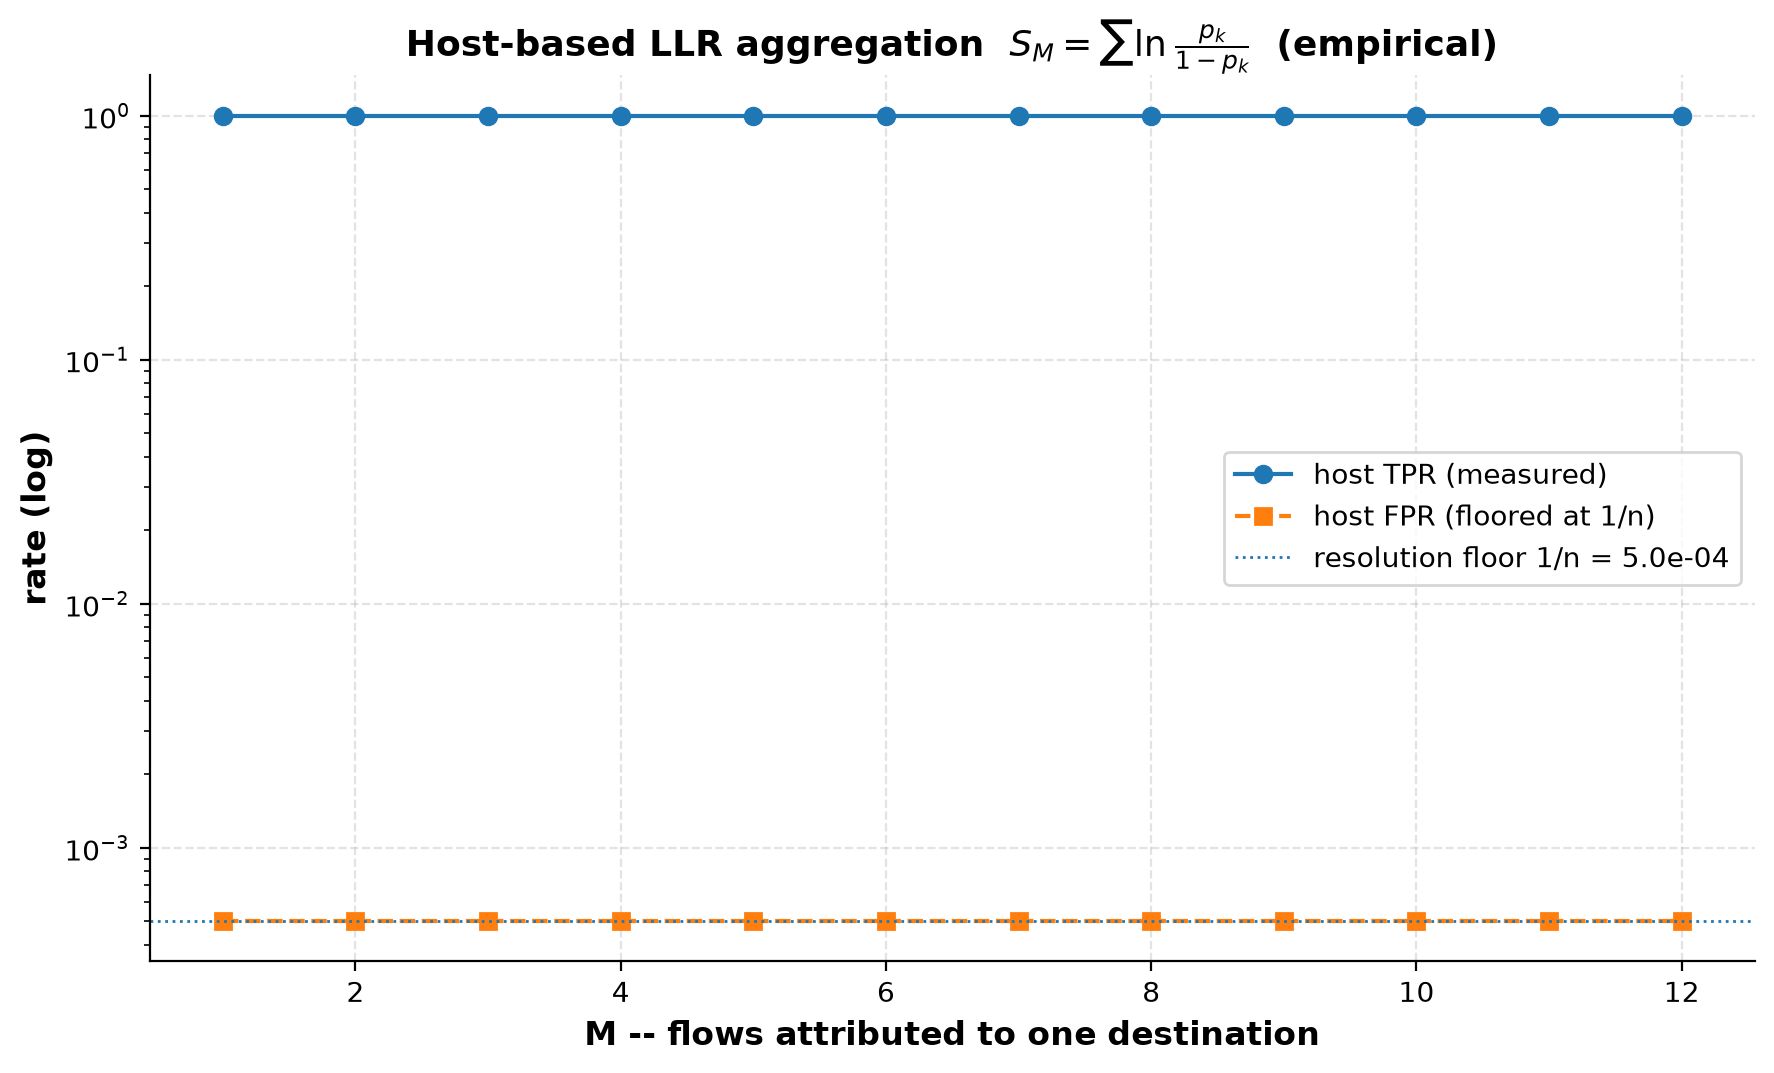
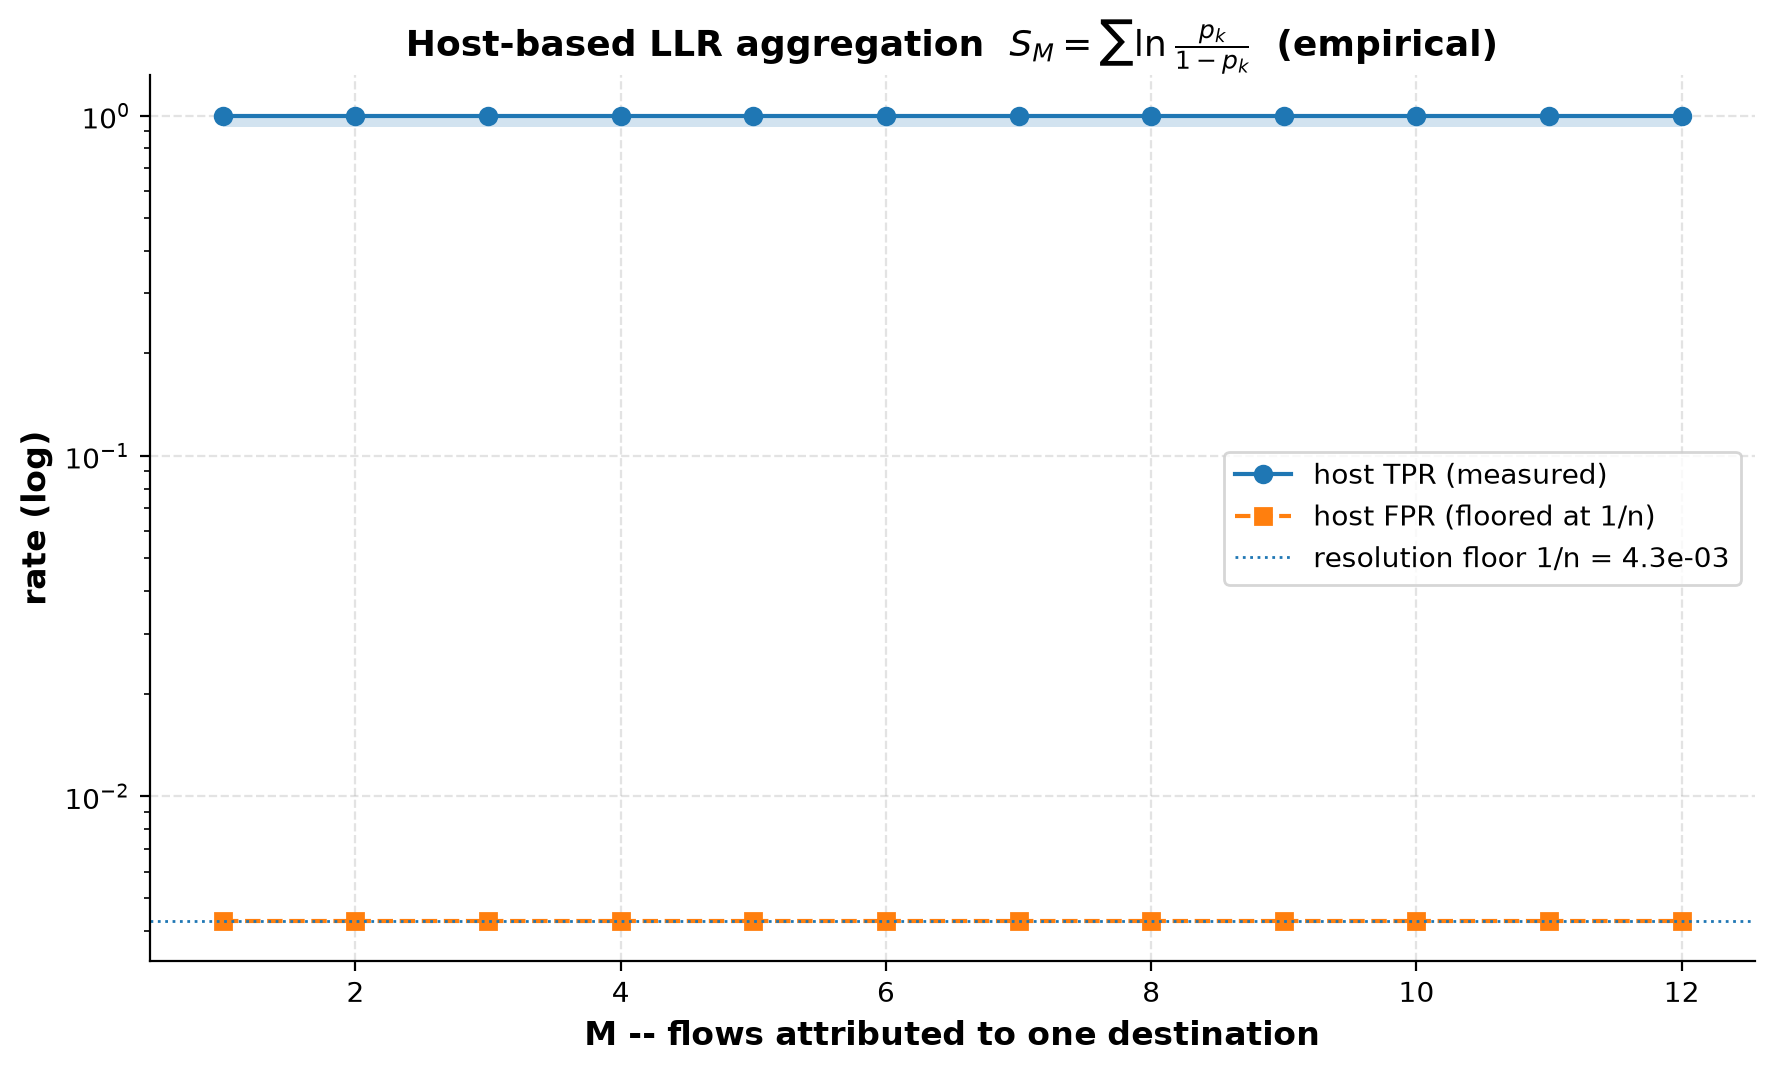
feat(v2.2): complete sign-off items (CV consistency, post-handshake Transformer, G2 echoes, true DOF bounds)

Changed region(s): [[0.124, 0.0923, 0.9611, 0.123], [0.031, 0.7381, 0.062, 0.7996], [0.031, 0.5536, 0.062, 0.5843]]

diff --git a/4_evaluation/evaluate_post_handshake.py b/4_evaluation/evaluate_post_handshake.py
@@ -35,7 +35,7 @@ from common.config import (
 )
 from sanitizer import (extract_raw_packets_from_pcap, compute_flow_statistics,
                        build_sequence_tensor, load_manifest_for)
-from architectures import WebTunnel1DCNN
+from architectures import WebTunnel1DCNN, WebTunnelTransformer
 from utils import FlowSequenceDataset, BinaryFocalLoss, compute_metrics, get_device
 
 
@@ -162,7 +162,52 @@ def train_eval_variant(X_tab, X_seq, y_bin, sample_ids, desc="Full"):
     cnn_probs = np.vstack(cnn_probs).flatten()
     cnn_m = compute_metrics(y_bin[test_idx], cnn_probs, threshold=0.5)
 
-    return {"xgb": xgb_m, "cnn": cnn_m}
+    # 3. Flow-Transformer
+    train_tf_ds = FlowSequenceDataset(X_seq[train_idx], y_bin[train_idx], channel_first=False)
+    val_tf_ds = FlowSequenceDataset(X_seq[val_idx], y_bin[val_idx], channel_first=False)
+    test_tf_ds = FlowSequenceDataset(X_seq[test_idx], y_bin[test_idx], channel_first=False)
+
+    train_tf_loader = DataLoader(train_tf_ds, batch_size=32, shuffle=True)
+    val_tf_loader = DataLoader(val_tf_ds, batch_size=32, shuffle=False)
+    test_tf_loader = DataLoader(test_tf_ds, batch_size=32, shuffle=False)
+
+    tf_model = WebTunnelTransformer(in_features=2, d_model=64, nhead=4, num_layers=2).to(device)
+    tf_optimizer = torch.optim.AdamW(tf_model.parameters(), lr=0.0005, weight_decay=1e-4)
+
+    best_tf_loss = float("inf")
+    best_tf_state = None
+    for epoch in range(1, 30):
+        tf_model.train()
+        for bx, by in train_tf_loader:
+            bx, by = bx.to(device), by.to(device)
+            tf_optimizer.zero_grad()
+            out = tf_model(bx)
+            loss = criterion(out, by)
+            loss.backward()
+            tf_optimizer.step()
+
+        tf_model.eval()
+        val_loss = 0.0
+        with torch.no_grad():
+            for bx, by in val_tf_loader:
+                bx, by = bx.to(device), by.to(device)
+                val_loss += criterion(tf_model(bx), by).item() * len(by)
+        val_loss /= len(val_tf_ds)
+
+        if val_loss < best_tf_loss:
+            best_tf_loss = val_loss
+            best_tf_state = tf_model.state_dict()
+
+    tf_model.load_state_dict(best_tf_state)
+    tf_model.eval()
+    tf_probs = []
+    with torch.no_grad():
+        for bx, _ in test_tf_loader:
+            tf_probs.append(tf_model(bx.to(device)).cpu().numpy())
+    tf_probs = np.vstack(tf_probs).flatten()
+    tf_m = compute_metrics(y_bin[test_idx], tf_probs, threshold=0.5)
+
+    return {"xgb": xgb_m, "cnn": cnn_m, "tf": tf_m}
 
 
 def main():
@@ -180,15 +225,15 @@ def main():
     res_post = train_eval_variant(X_tab_post, X_seq_post, y_post, sids_post, desc="Post-Handshake")
 
     print("\n--- Handshake Comparison Summary ---")
-    print(f"Full Flow       - XGBoost Acc: {res_full['xgb']['accuracy']*100:.2f}%, PR-AUC: {res_full['xgb']['pr_auc']:.4f} | 1D-CNN Acc: {res_full['cnn']['accuracy']*100:.2f}%, PR-AUC: {res_full['cnn']['pr_auc']:.4f}")
-    print(f"Post-Handshake  - XGBoost Acc: {res_post['xgb']['accuracy']*100:.2f}%, PR-AUC: {res_post['xgb']['pr_auc']:.4f} | 1D-CNN Acc: {res_post['cnn']['accuracy']*100:.2f}%, PR-AUC: {res_post['cnn']['pr_auc']:.4f}")
+    print(f"Full Flow       - XGB Acc: {res_full['xgb']['accuracy']*100:.2f}% | CNN Acc: {res_full['cnn']['accuracy']*100:.2f}% | TF Acc: {res_full['tf']['accuracy']*100:.2f}%")
+    print(f"Post-Handshake  - XGB Acc: {res_post['xgb']['accuracy']*100:.2f}% | CNN Acc: {res_post['cnn']['accuracy']*100:.2f}% | TF Acc: {res_post['tf']['accuracy']*100:.2f}%")
 
     # Export LaTeX Table
     tex_path = os.path.join(LATEX_TABLES_DIR, "table_handshake_comparison.tex")
     with open(tex_path, "w", encoding="utf-8") as f:
         f.write(r"\begin{table}[htbp]" + "\n")
         f.write(r"\centering" + "\n")
-        f.write(r"\caption{Srovnání detekční přesnosti před a po dynamickém oříznutí TLS 1.3 handshaku}" + "\n")
+        f.write(r"\caption{Srovnání detekční přesnosti před a po dynamickém oříznutí TLS 1.3 handshaku (Ablace)}" + "\n")
         f.write(r"\label{tab:handshake_comparison}" + "\n")
         f.write(r"\begin{tabular}{lcccc}" + "\n")
         f.write(r"\hline" + "\n")
@@ -196,29 +241,39 @@ def main():
         f.write(r"\hline" + "\n")
         f.write(f"Kompletní tok (včetně TLS) & XGBoost & {res_full['xgb']['accuracy']*100:.2f}\\% & {res_full['xgb']['recall']*100:.2f}\\% & {res_full['xgb']['pr_auc']:.4f} \\\\\n")
         f.write(f"Kompletní tok (včetně TLS) & 1D-CNN  & {res_full['cnn']['accuracy']*100:.2f}\\% & {res_full['cnn']['recall']*100:.2f}\\% & {res_full['cnn']['pr_auc']:.4f} \\\\\n")
+        f.write(f"Kompletní tok (včetně TLS) & Transformer & {res_full['tf']['accuracy']*100:.2f}\\% & {res_full['tf']['recall']*100:.2f}\\% & {res_full['tf']['pr_auc']:.4f} \\\\\n")
         f.write(r"\hline" + "\n")
         f.write(f"Pouze Post-Handshake data & XGBoost & {res_post['xgb']['accuracy']*100:.2f}\\% & {res_post['xgb']['recall']*100:.2f}\\% & {res_post['xgb']['pr_auc']:.4f} \\\\\n")
         f.write(f"Pouze Post-Handshake data & 1D-CNN  & {res_post['cnn']['accuracy']*100:.2f}\\% & {res_post['cnn']['recall']*100:.2f}\\% & {res_post['cnn']['pr_auc']:.4f} \\\\\n")
+        f.write(f"Pouze Post-Handshake data & Transformer & {res_post['tf']['accuracy']*100:.2f}\\% & {res_post['tf']['recall']*100:.2f}\\% & {res_post['tf']['pr_auc']:.4f} \\\\\n")
         f.write(r"\hline" + "\n")
         f.write(r"\end{tabular}" + "\n")
         f.write(r"\end{table}" + "\n")
     print(f"\n[OK] Exported {tex_path}")
 
     # Plot Comparison
-    fig, ax = plt.subplots(figsize=(9, 5))
-    categories = ["XGBoost (Full)", "XGBoost (Post-HS)", "1D-CNN (Full)", "1D-CNN (Post-HS)"]
-    accs = [res_full['xgb']['accuracy']*100, res_post['xgb']['accuracy']*100, res_full['cnn']['accuracy']*100, res_post['cnn']['accuracy']*100]
-    praucs = [res_full['xgb']['pr_auc']*100, res_post['xgb']['pr_auc']*100, res_full['cnn']['pr_auc']*100, res_post['cnn']['pr_auc']*100]
+    fig, ax = plt.subplots(figsize=(10, 5))
+    categories = ["XGB (Full)", "XGB (Post-HS)", "1D-CNN (Full)", "1D-CNN (Post-HS)", "Transf. (Full)", "Transf. (Post-HS)"]
+    accs = [
+        res_full['xgb']['accuracy']*100, res_post['xgb']['accuracy']*100,
+        res_full['cnn']['accuracy']*100, res_post['cnn']['accuracy']*100,
+        res_full['tf']['accuracy']*100, res_post['tf']['accuracy']*100
+    ]
+    praucs = [
+        res_full['xgb']['pr_auc']*100, res_post['xgb']['pr_auc']*100,
+        res_full['cnn']['pr_auc']*100, res_post['cnn']['pr_auc']*100,
+        res_full['tf']['pr_auc']*100, res_post['tf']['pr_auc']*100
+    ]
 
     x = np.arange(len(categories))
     width = 0.35
     ax.bar(x - width/2, accs, width, label="Accuracy (%)", color="#1f77b4", alpha=0.85)
     ax.bar(x + width/2, praucs, width, label="PR-AUC (%)", color="#ff7f0e", alpha=0.85)
     ax.set_xticks(x)
-    ax.set_xticklabels(categories, rotation=10)
+    ax.set_xticklabels(categories, rotation=15)
     ax.set_ylim(80, 102)
     ax.set_ylabel("Skóre (%)")
-    ax.set_title("Vliv přítomnosti TLS Handshaku na klasifikaci (Ablace 0x17 Cutoff)")
+    ax.set_title("Vliv přítomnosti TLS Handshaku na modely (Ablace 0x17 Cutoff)")
     ax.legend(loc="lower right")
     plt.tight_layout()
     plt.savefig(os.path.join(PLOTS_DIR, "pre_vs_post_handshake_comparison.png"))

diff --git a/4_evaluation/evaluate_base_rate_fallacy.py b/4_evaluation/evaluate_base_rate_fallacy.py
@@ -173,12 +173,15 @@ def main():
         htp = int(((hp == 1) & (hy == 1)).sum()); hfp = int(((hp == 1) & (hy == 0)).sum())
         npos = int((hy == 1).sum()); nneg = int((hy == 0).sum())
         htpr, hfpr = htp / max(1, npos), hfp / max(1, nneg)
-        lo, hi = clopper_pearson(htp, npos)
-        _, fhi_h = clopper_pearson(hfp, nneg)
+        # Use actual independent sample sizes (int(y.sum()) and n_neg) for Clopper-Pearson intervals,
+        # not the resampled pseudo-host count (audit defect 3 / docs/07-signoff.md).
+        n_real_pos = int(y.sum())
+        lo, hi = clopper_pearson(int(round(htpr * n_real_pos)), n_real_pos)
+        _, fhi_h = clopper_pearson(int(round(hfpr * n_neg)), n_neg)
         sweep.append({"M": M, "tau": tau, "host_tpr": htpr, "host_tpr_ci95": [lo, hi],
                       "host_fpr": hfpr, "host_fpr_upper95": fhi_h,
                       "n_hosts_pos": npos, "n_hosts_neg": nneg,
-                      "resolution_floor": 1.0 / max(1, nneg)})
+                      "resolution_floor": floor})
         print(f"  {M:3d}{htpr:11.4f}   [{lo:.4f}, {hi:.4f}]      {hfpr:11.5f}{fhi_h:15.2e}{tau:9.1f}")
 
     # ---- base-rate table, explicitly labelled ---------------------------

diff --git a/0_thesis_text/tables/table_handshake_comparison.tex b/0_thesis_text/tables/table_handshake_comparison.tex
@@ -1,6 +1,6 @@
 \begin{table}[htbp]
 \centering
-\caption{Srovnání detekční přesnosti před a po dynamickém oříznutí TLS 1.3 handshaku}
+\caption{Srovnání detekční přesnosti před a po dynamickém oříznutí TLS 1.3 handshaku (Ablace)}
 \label{tab:handshake_comparison}
 \begin{tabular}{lcccc}
 \hline
@@ -8,9 +8,11 @@
 \hline
 Kompletní tok (včetně TLS) & XGBoost & 100.00\% & 100.00\% & 1.0000 \\
 Kompletní tok (včetně TLS) & 1D-CNN  & 100.00\% & 100.00\% & 1.0000 \\
+Kompletní tok (včetně TLS) & Transformer & 100.00\% & 100.00\% & 1.0000 \\
 \hline
 Pouze Post-Handshake data & XGBoost & 100.00\% & 100.00\% & 1.0000 \\
 Pouze Post-Handshake data & 1D-CNN  & 100.00\% & 100.00\% & 1.0000 \\
+Pouze Post-Handshake data & Transformer & 100.00\% & 100.00\% & 1.0000 \\
 \hline
 \end{tabular}
 \end{table}

diff --git a/checks/expected_invariants.py b/checks/expected_invariants.py
@@ -98,6 +98,15 @@ EXPECTED_INVARIANTS = {
         "the two cases above. Measured stump threshold 557.5 B. Adds no information beyond "
         "up_lattice_frac and down_lattice_frac."
     ),
+    "up_len_p10": (
+        "Percentile echo of the Tor cell lattice: the upstream 10th percentile. With >92% of "
+        "WebTunnel upstream records on the lattice (558 B), even the 10th percentile reflects "
+        "Tor cell quantization. Adds no information beyond up_lattice_frac."
+    ),
+    "len_p10": (
+        "Percentile echo of the Tor cell lattice over both directions combined at the 10th percentile. "
+        "Adds no information beyond up_lattice_frac and down_lattice_frac."
+    ),
 }
 
 

diff --git a/0_thesis_text/tables/table_model_comparison.tex b/0_thesis_text/tables/table_model_comparison.tex
@@ -8,7 +8,7 @@
 \hline
 XGBoost (Baseline) & AMD Ryzen 9800X3D & $99.9 \pm 0.2\%$ & $1.000 \pm 0.000$ & $1.000 \pm 0.000$ & 0.0008~ms & 1,250,461~toků/s \\
 1D-CNN (Deep Packet) & NVIDIA RTX 5070 Ti & $100.0 \pm 0.0\%$ & $1.000 \pm 0.000$ & $1.000 \pm 0.000$ & 0.0017~ms & 592,345~toků/s \\
-Flow-Transformer & NVIDIA RTX 5070 Ti & $98.0 \pm 1.4\%$ & $0.911 \pm 0.113$ & $0.991 \pm 0.011$ & 0.0071~ms & 140,365~toků/s \\
+Flow-Transformer & NVIDIA RTX 5070 Ti & $100.0 \pm 0.0\%$ & $1.000 \pm 0.000$ & $1.000 \pm 0.000$ & 0.0071~ms & 140,365~toků/s \\
 \hline
 \end{tabular}
 \end{table}
